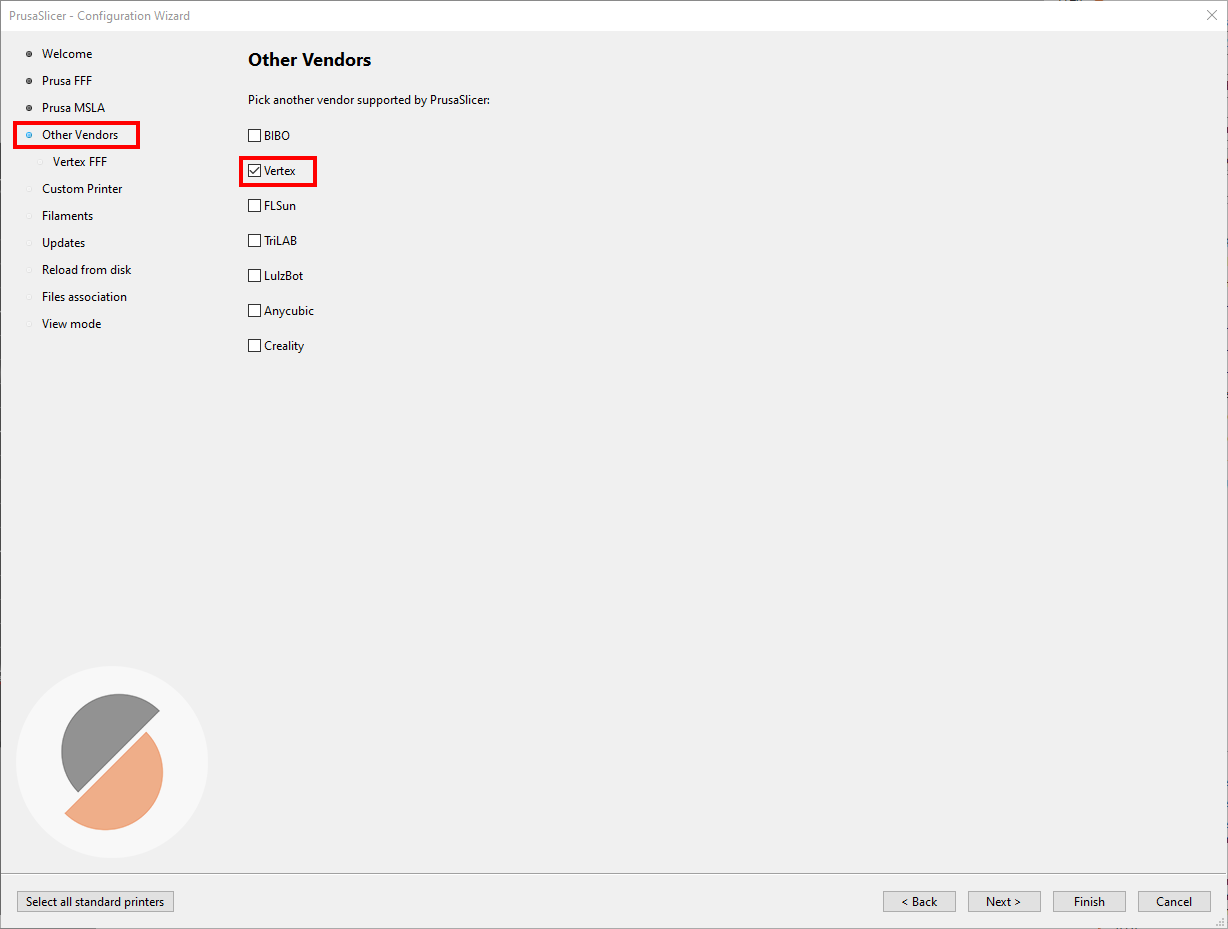
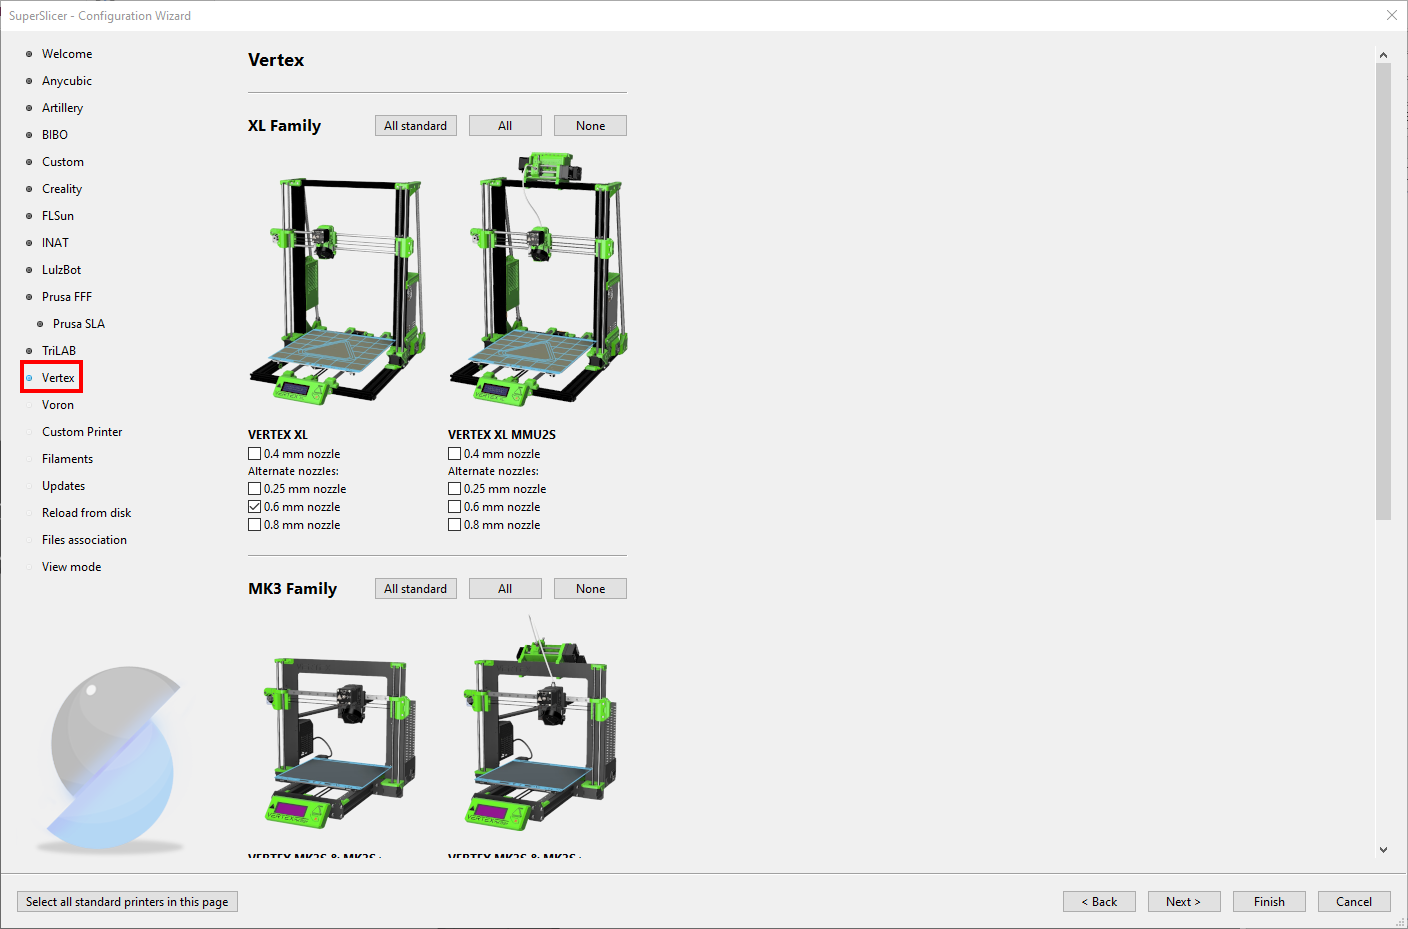
Changed to SuperSlicer

diff --git a/README.md b/README.md
@@ -1,19 +1,16 @@
 # How to add the VERTEX's profiles
 
-## Download the latest release ##
+## Download the latest release of SuperSlicer ##
 
-Use [this link](https://github.com/Vertex3dPrinters/VERTEX-PrusaSlicer-Profiles/releases/latest) to download the latest release of our profiles
+Use [this link](https://github.com/supermerill/SuperSlicer/releases/latest) to download the latest release of SuperSlicer
 
-## Uncompress the profiles in the correct path ##
+## Is available for Windows, MacOS, and Linux ##
 
-You will need to uncompress the profiles files in the correct path.
-
-* On **Windows** the path should be `C:\Program Files\Prusa3D\PrusaSlicer\resources\profiles`
-* On **MACOS** the path should be `/Applications/Original Prusa Drivers/PrusaSlicer.app/Contents/Resources/profiles`
+Download the version required by your architecture.
 
 ## Adding the machines ## 
 
-Open the "Configuration Wizzard" and select "Other Vendors" --> "Vertex" like in the following image.
+Open the "Configuration Wizzard" and select **"Vertex"** like in the following image.
 
 ![Add Vertex FFF](/images/add_vertex_fff.png)
 
@@ -27,4 +24,4 @@ Finally **be sure** that you have selected the **VERTEX PETG Filament**
 
 That's all, now you can enjoy of your VERTEX 3d experience.
 
-![VERTEX PrusaSlicer](/images/vertex_prusaslicer.png)
+![VERTEX SuperSlicer](/images/vertex_superslicer.png)
